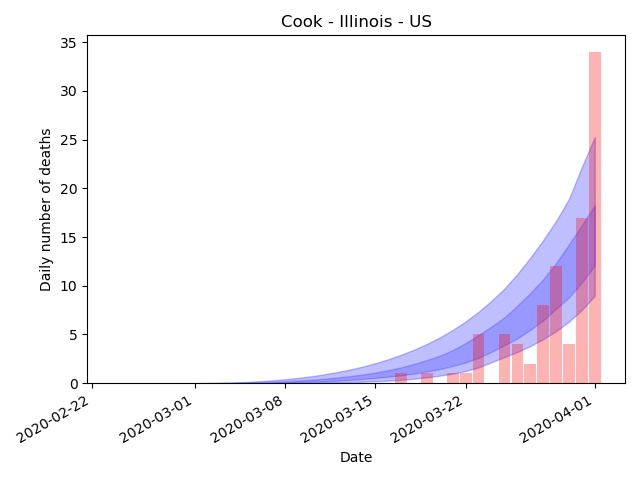
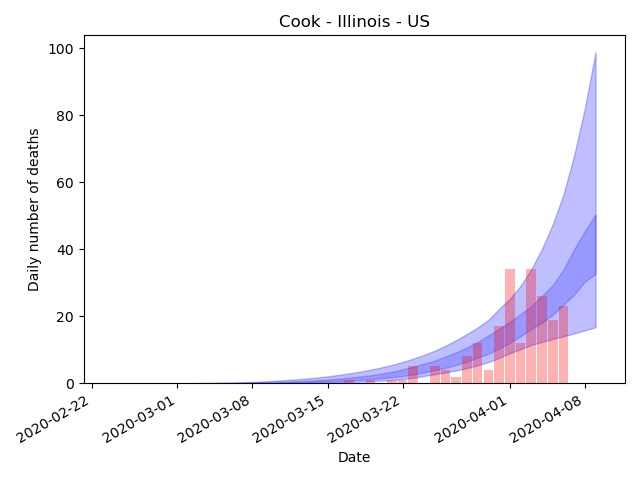
plot until 10th April

diff --git a/scripts/forecast_plots.py b/scripts/forecast_plots.py
@@ -9,7 +9,7 @@ import datetime
 plot_settings = 'usa'  # choose 'eu' for europe and 'usa' for usa plots
 base_model = True  # True for prediction/E_deaths, False for prediction0/E_deaths0
 # to match with IC paper select base_model==True
-last_day_to_plot = '4/02/20'  # predict to this date
+last_day_to_plot = '4/10/20'  # predict to this date
 
 
 # saving some params for plot settings
@@ -63,6 +63,7 @@ def plot_forecasts_wo_dates_quantiles(quantiles_dict, confirmed_cases, county_na
         barplot_missing_values = np.zeros(days_to_predict - np.shape(confirmed_cases)[0])
         barplot_values = list(confirmed_cases) + list(barplot_missing_values)
 
+    print(np.shape(days_to_predict), np.shape(confirmed_cases)[0])
     # plot creation
     fig = plt.figure('Forecast ')
     ax = fig.add_subplot(111)
